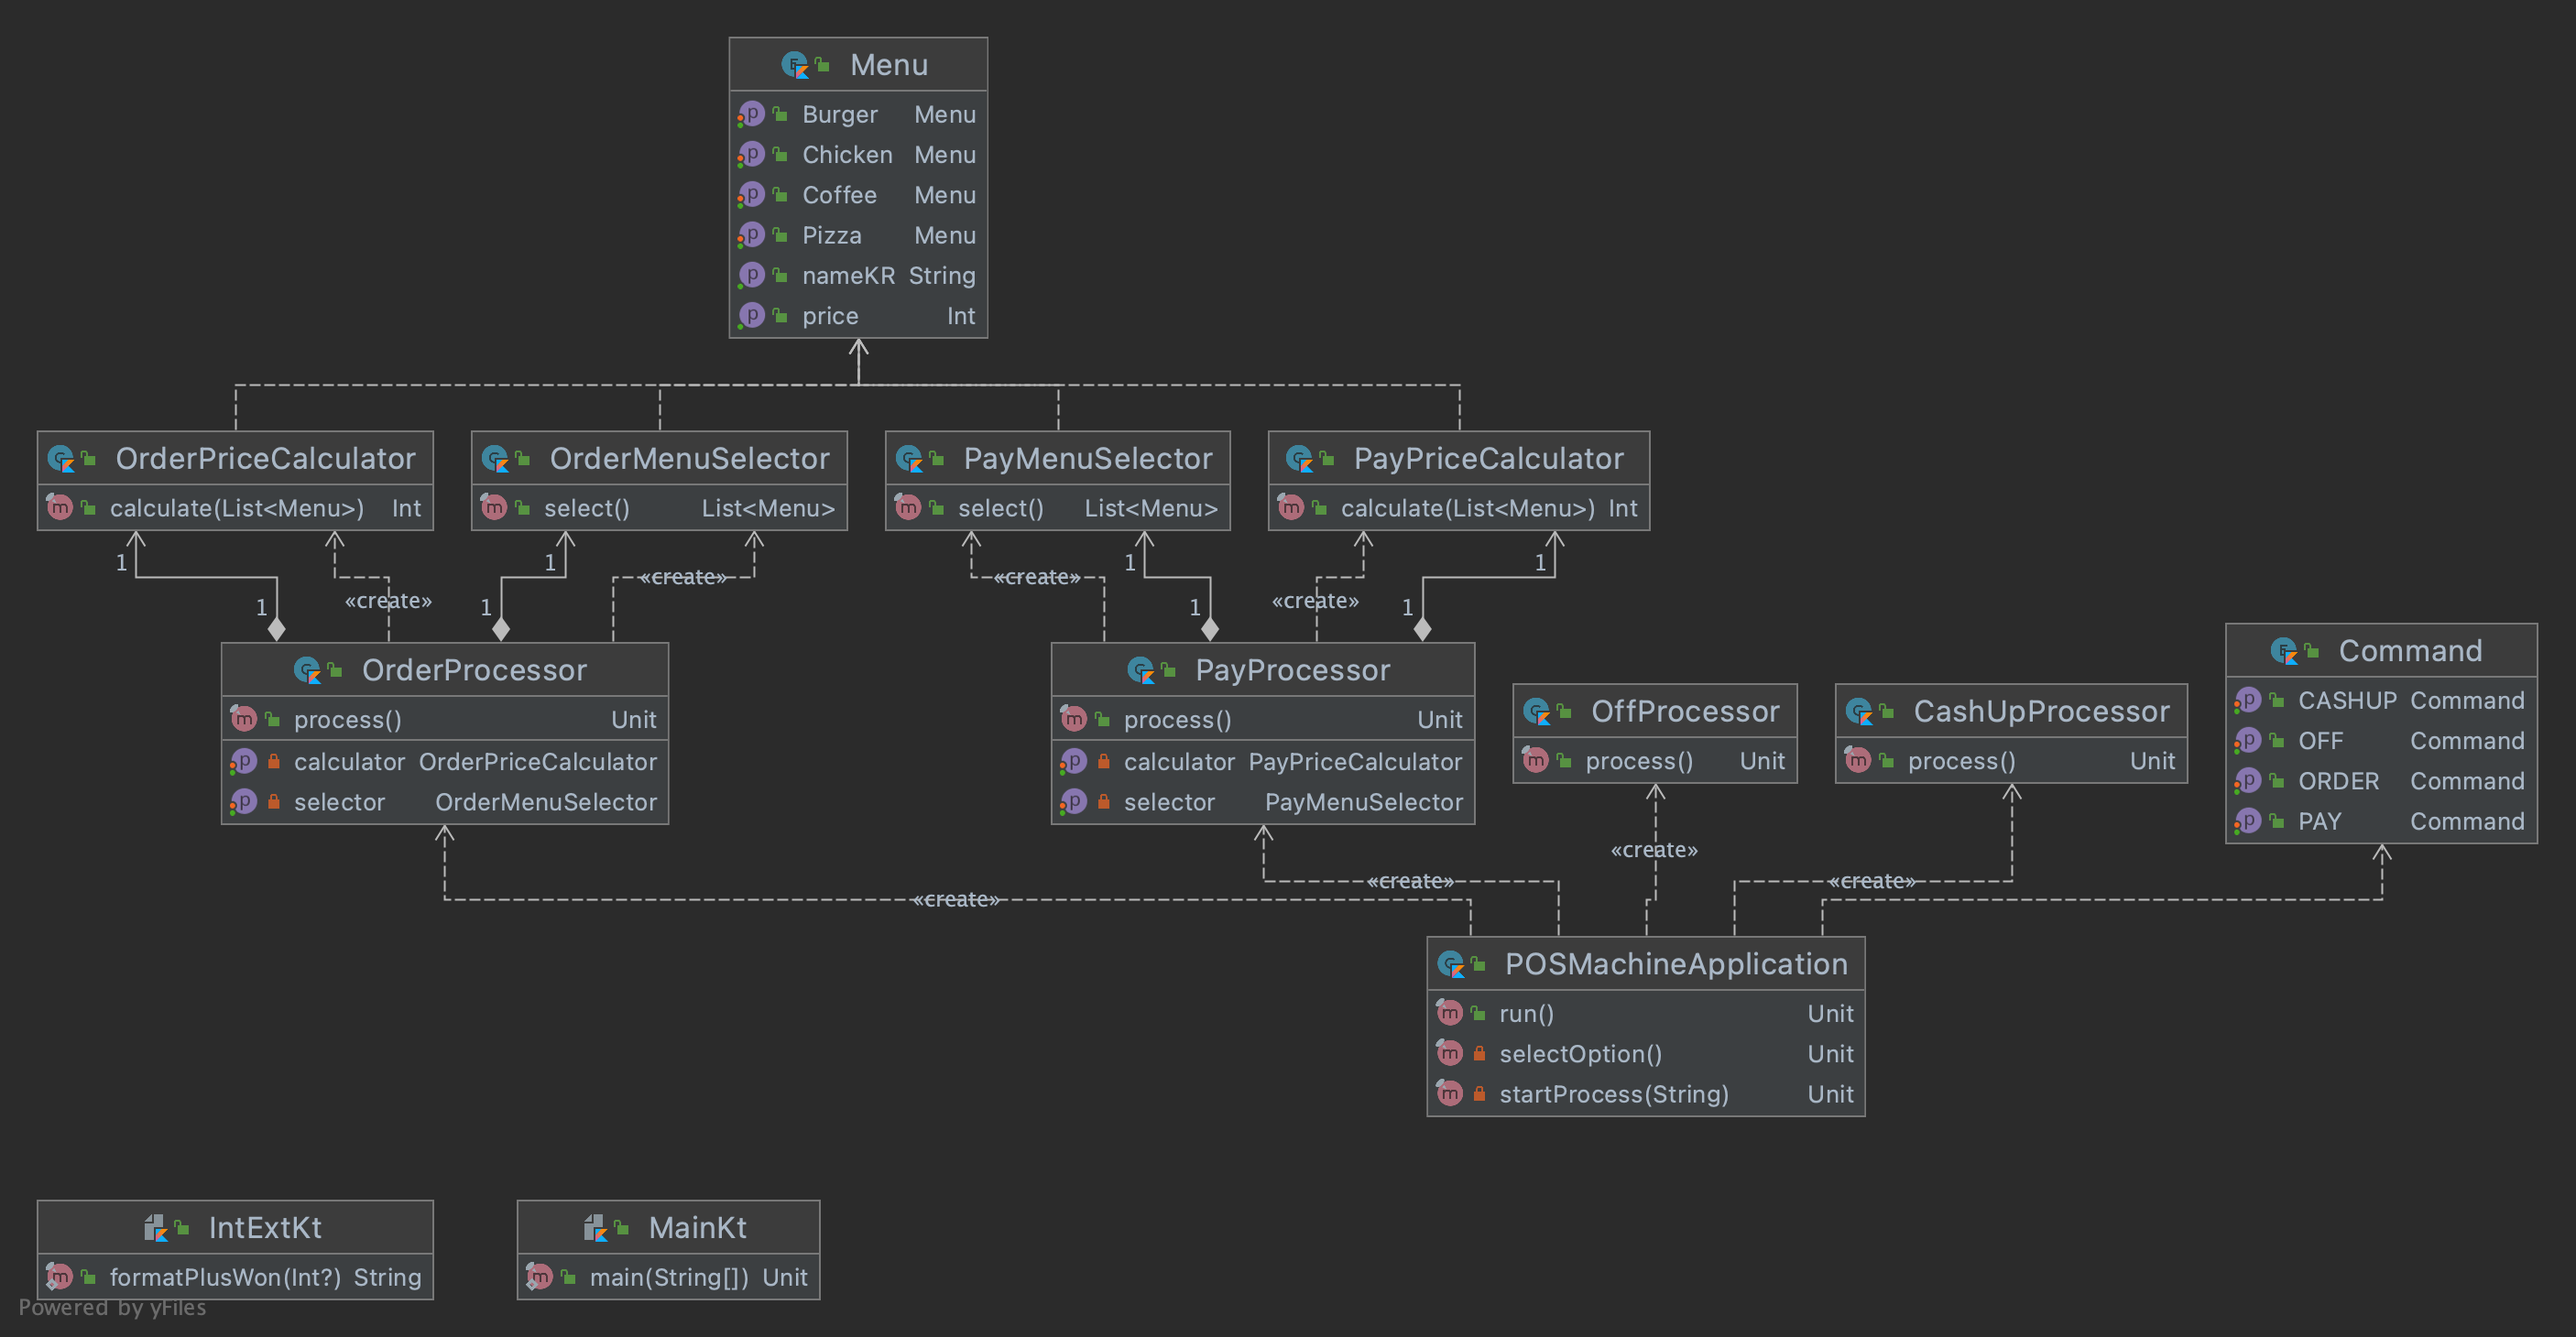
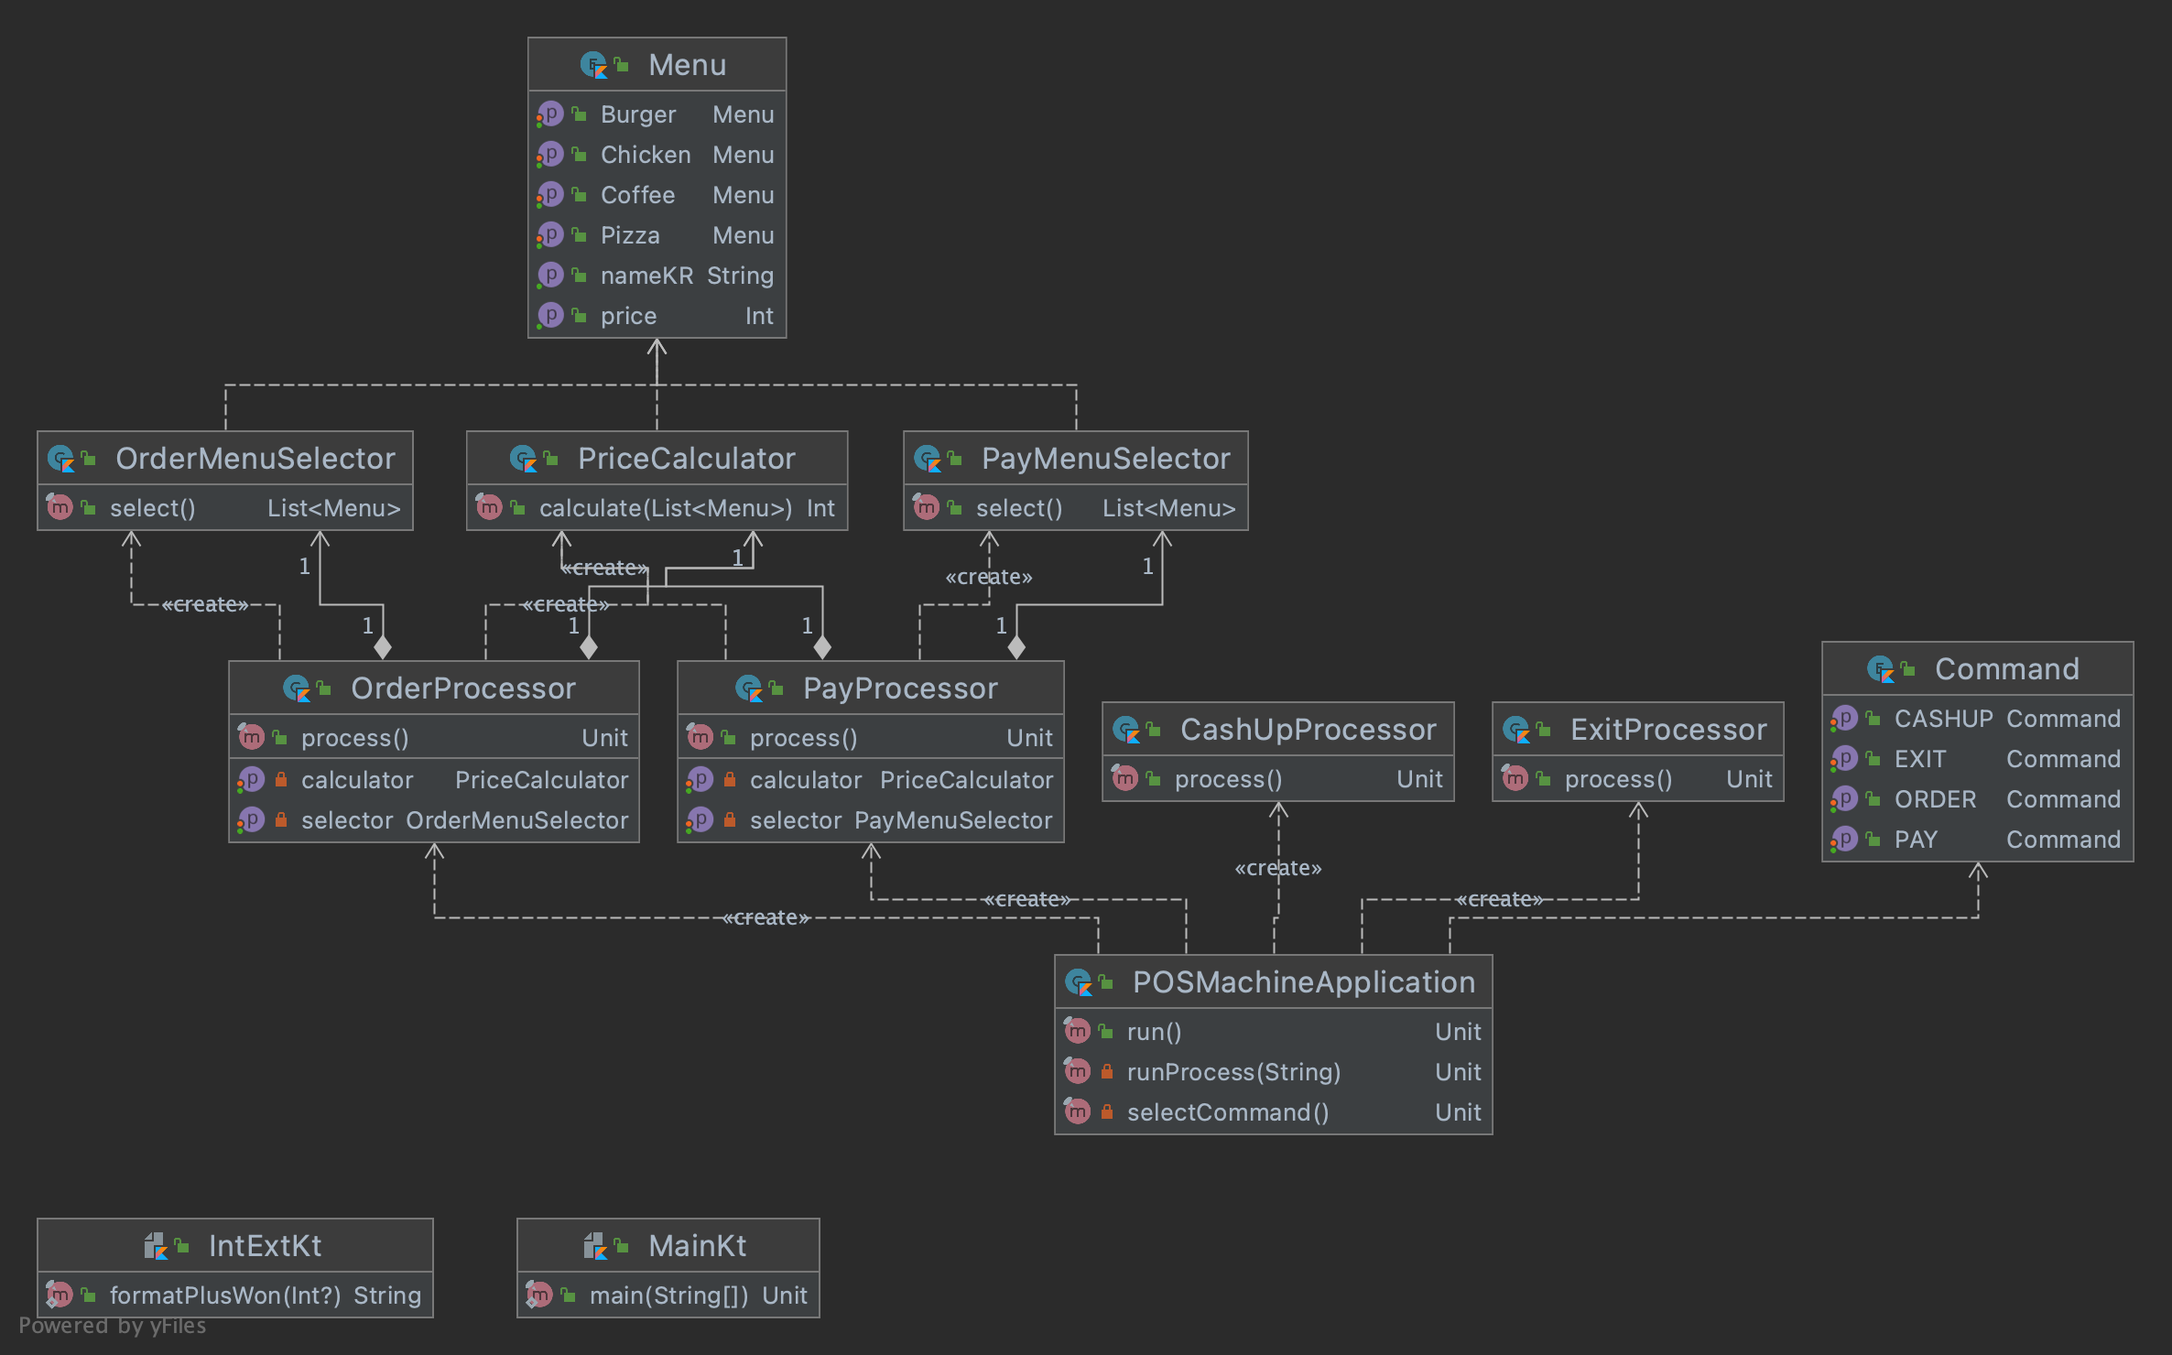
off -> exit renaming

Changed region(s): [[0.0, 0.0308, 0.9983, 0.8322], [0.0, 0.8938, 0.3744, 0.9863]]

diff --git a/src/main/kotlin/POSMachineApplication.kt b/src/main/kotlin/POSMachineApplication.kt
@@ -35,7 +35,7 @@ class POSMachineApplication {
                 Command.ORDER -> OrderProcessor().process()
                 Command.PAY -> PayProcessor().process()
                 Command.CASHUP -> CashUpProcessor().process()
-                else -> OffProcessor().process()
+                else -> ExitProcessor().process()
             }
         }
     }

diff --git a/src/main/kotlin/processor/ExitProcessor.kt b/src/main/kotlin/processor/ExitProcessor.kt
@@ -2,7 +2,7 @@ package processor
 
 import kotlin.system.exitProcess
 
-class OffProcessor {
+class ExitProcessor {
 
     fun process() {
         println("포스기 종료!")

diff --git a/src/main/kotlin/command/Command.kt b/src/main/kotlin/command/Command.kt
@@ -4,5 +4,5 @@ enum class Command {
     ORDER,
     PAY,
     CASHUP,
-    OFF,
+    EXIT,
 }
